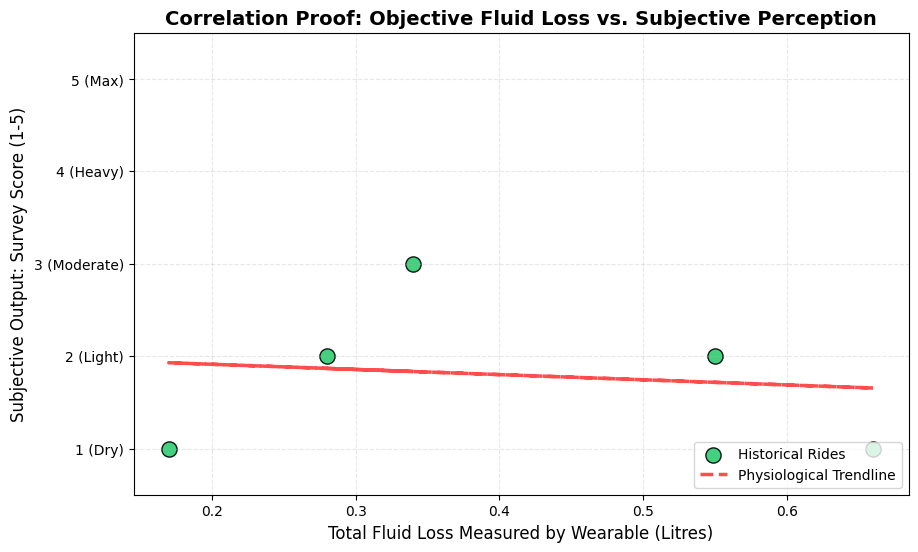
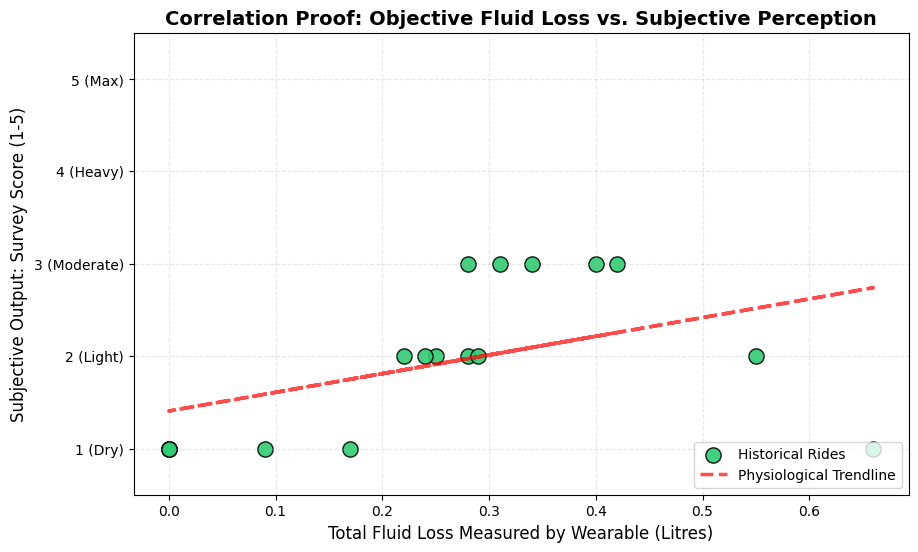
added power and have run a few more tests

diff --git a/ebike_controller.py b/ebike_controller.py
@@ -25,6 +25,9 @@ import queue
 import email_notifier
 # --- GLOBAL STATE ---
 current_speed_kph = 0.0
+current_battery_voltage_v = 0.0
+current_motor_amps_a = 0.0
+current_motor_power_w = 0.0
 last_cadence_time = 0
 cadence_pulse_count = 0
 current_cadence_rpm = 0.0
@@ -132,12 +135,20 @@ class CycleAnalystReader(threading.Thread):
         parts = line.split('\t')
         if len(parts) > 3:
             try:
-                # Speed is index 3
+                # Index [1] = Volts, Index [2] = Amps, Index [3] = Speed
+                volts = float(parts[1])
+                amps = float(parts[2])
+                # Index [1] = Volts, Index [2] = Amps, Index [3] = Speed
+                volts = float(parts[1])
+                amps = float(parts[2])
                 self.speed = float(parts[3])
                 
-                # Update global speed
-                global current_speed_kph
+                # Update global states
+                global current_speed_kph, current_battery_voltage_v, current_motor_amps_a, current_motor_power_w
                 current_speed_kph = self.speed
+                current_battery_voltage_v = volts
+                current_motor_amps_a = amps
+                current_motor_power_w = volts * amps
             except ValueError:
                 pass
 
@@ -550,7 +561,7 @@ def main():
                     filename = f"ride_logs/{current_ride_id}.csv"
                     csv_file = open(filename, 'w', newline='')
                     csv_writer = csv.writer(csv_file)
-                    csv_writer.writerow(["ride_id", "timestamp", "rpm", "speed_kph", "torque_nm", "voltage_out", "power_band", "temp_c", "humidity_pct", "fluid_loss_l", "sweat_rate_l_hr", "skin_temp_c"])
+                    csv_writer.writerow(["ride_id", "timestamp", "rpm", "speed_kph", "torque_nm", "voltage_out", "battery_voltage_v", "motor_current_a", "motor_power_w", "power_band", "temp_c", "humidity_pct", "fluid_loss_l", "sweat_rate_l_hr", "skin_temp_c"])
                     is_logging = True
                     print(f"\n[IoT] STARTED RECORDING {current_ride_id} TO {filename}")
                 
@@ -569,6 +580,9 @@ def main():
                         "speed_kph": round(current_speed_kph, 1),
                         "torque_nm": round(smoothed_torque, 1),
                         "voltage_out": round(target_voltage, 2),
+                        "battery_voltage_v": round(current_battery_voltage_v, 2),
+                        "motor_current_a": round(current_motor_amps_a, 2),
+                        "motor_power_w": round(current_motor_power_w, 2),
                         "power_band": config.CURRENT_POWER_BAND,
                         "temp_c": round(current_temp_c, 2),
                         "humidity_pct": round(current_humid_pct, 2),
@@ -580,6 +594,7 @@ def main():
                     csv_writer.writerow([
                         row_data["ride_id"], row_data["timestamp"], row_data["rpm"], 
                         row_data["speed_kph"], row_data["torque_nm"], row_data["voltage_out"], 
+                        row_data["battery_voltage_v"], row_data["motor_current_a"], row_data["motor_power_w"],
                         row_data["power_band"], row_data["temp_c"], row_data["humidity_pct"], 
                         row_data["fluid_loss_l"], row_data["sweat_rate_l_hr"], row_data["skin_temp_c"]
                     ])

diff --git a/Data_analysis/analyse_last_ride.py b/Data_analysis/analyse_last_ride.py
@@ -99,6 +99,11 @@ def print_summary(df: pd.DataFrame, ride_id: str):
     print(f"  Avg cadence       : {df['rpm'][df['rpm'] > 0].mean():.0f} RPM  (when pedalling)")
     print(f"  Max torque        : {df['torque_nm'].max():.1f} Nm")
     print(f"  Motor assist      : {pct_assist:.1f}% of ride time")
+    if "motor_power_w" in df.columns and df["motor_power_w"].notna().any():
+        max_pwr = df["motor_power_w"].max()
+        avg_pwr = df["motor_power_w"][df["motor_power_w"] > 0].mean()
+        print(f"  Max motor power   : {max_pwr:.0f} W")
+        print(f"  Avg motor power   : {avg_pwr:.0f} W  (when active)")
     print(f"  Ambient temp      : {df['temp_c'].mean():.1f} °C avg")
     print(f"  Humidity          : {df['humidity_pct'].mean():.1f}% avg")
     if total_fluid is not None:
@@ -202,12 +207,12 @@ def plot_ride(df: pd.DataFrame, ride_id: str):
     ax6.legend(fontsize=7)
     ax6.grid(True, alpha=0.3)
 
-    # ── 7. Torque vs Voltage scatter (verify assist mapping) ─────────────────
+    # ── 7. Torque vs Voltage scatter (verify algorithm mapping) ────────────────
     ax7 = fig.add_subplot(gs[2, 0])
     sc = ax7.scatter(df["torque_nm"], df["voltage_out"],
                      c=df["speed_kph"], cmap="viridis", s=8, alpha=0.5)
     plt.colorbar(sc, ax=ax7, label="Speed (km/h)")
-    ax7.set_title("Torque → Motor Voltage\n(coloured by speed)")
+    ax7.set_title("Torque → Algorithm Voltage\n(coloured by speed)")
     ax7.set_xlabel("Torque (Nm)")
     ax7.set_ylabel("Voltage out (V)")
     ax7.grid(True, alpha=0.3)
@@ -224,18 +229,20 @@ def plot_ride(df: pd.DataFrame, ride_id: str):
     ax8.legend(fontsize=7)
     ax8.grid(True, alpha=0.3)
 
-    # ── 9. HDrop data coverage / connection quality ───────────────────────────
+    # ── 9. Torque vs Physical Motor Power scatter (verify actual terrain) ─────
     ax9 = fig.add_subplot(gs[2, 2])
-    fluid_present = df["fluid_loss_l"].notna().astype(int)
-    # Rolling 60-row window (~1 min) shows dropout regions clearly
-    coverage = fluid_present.rolling(60, min_periods=1).mean() * 100
-    ax9.fill_between(x, coverage, alpha=0.4, color="#8BC34A")
-    ax9.plot(x, coverage, color="#558B2F", linewidth=1.0)
-    ax9.set_ylim(0, 110)
-    ax9.axhline(100, color="green", linestyle=":", linewidth=0.7, alpha=0.5)
-    ax9.set_title("HDrop Connection Quality\n(rolling 1-min coverage %)")
-    ax9.set_xlabel("Elapsed (min)")
-    ax9.set_ylabel("Coverage (%)")
+    if "motor_power_w" in df.columns and df["motor_power_w"].notna().any():
+        sc9 = ax9.scatter(df["torque_nm"], df["motor_power_w"],
+                         c=df["speed_kph"], cmap="plasma", s=8, alpha=0.6)
+        plt.colorbar(sc9, ax=ax9, label="Speed (km/h)")
+        ax9.set_title("Leg Torque vs Motor Power (W)\n(Actual Thermodynamic Effort)")
+        ax9.set_ylabel("Motor Power (Watts)")
+    else:
+        ax9.text(0.5, 0.5, "No Motor Power Logged", transform=ax9.transAxes,
+                 ha="center", va="center", color="grey")
+        ax9.set_title("Leg Torque vs Motor Power (W)")
+        
+    ax9.set_xlabel("Torque (Nm)")
     ax9.grid(True, alpha=0.3)
 
     plt.savefig(os.path.join(os.path.dirname(__file__), f"{ride_id}_analysis.png"),

diff --git a/test_cycle_analyst_raw.py b/test_cycle_analyst_raw.py
@@ -1,0 +1,63 @@
+import serial
+import time
+import sys
+
+# Import the existing config for the serial port
+try:
+    import config
+except ImportError:
+    print("Error: Ensure you are running this in your Pi_code directory.")
+    sys.exit(1)
+
+def test_serial():
+    print("="*60)
+    print("  CYCLE ANALYST V3: RAW DATA HEX/STRING DUMPER")
+    print("="*60)
+    print(f"Connecting to {config.SERIAL_PORT} at {config.SERIAL_BAUD} baud...\n")
+    
+    try:
+        ser = serial.Serial(config.SERIAL_PORT, config.SERIAL_BAUD, timeout=3)
+    except Exception as e:
+        print(f"Failed to open port: {e}")
+        return
+
+    # Flush any garbage data sitting in the buffer
+    ser.reset_input_buffer()
+    
+    lines_read = 0
+    print("Waiting for data stream (Make sure the Cycle Analyst is physically ON)...\n")
+    
+    while lines_read < 5:
+        if ser.in_waiting:
+            # Read a raw line from the CA
+            raw_bytes = ser.readline()
+            
+            try:
+                line = raw_bytes.decode('utf-8', errors='ignore').strip()
+                parts = line.split('\t')
+                
+                print(f"--- READ #{lines_read + 1} ---")
+                print(f"RAW STRING  : '{line}'")
+                print(f"TOTAL PARTS : {len(parts)} blocks detected separated by tabs")
+                
+                if len(parts) > 3:
+                    print(f"Index [0] (Ah)    -> {parts[0]}")
+                    print(f"Index [1] (Volts) -> {parts[1]}")
+                    print(f"Index [2] (Amps)  -> {parts[2]}")
+                    print(f"Index [3] (Speed) -> {parts[3]}")
+                else:
+                    print(">>> WARNING: Format is completely different! Grin Firmware mismatch!")
+                    
+                print("-" * 60)
+                lines_read += 1
+                
+            except Exception as e:
+                print(f"Parse error on line: {e}")
+        else:
+            time.sleep(0.1)
+            
+    ser.close()
+    print("\nSUCCESS: Dump completed. Inspect the indices above to guarantee the positions!")
+
+if __name__ == "__main__":
+    test_serial()
